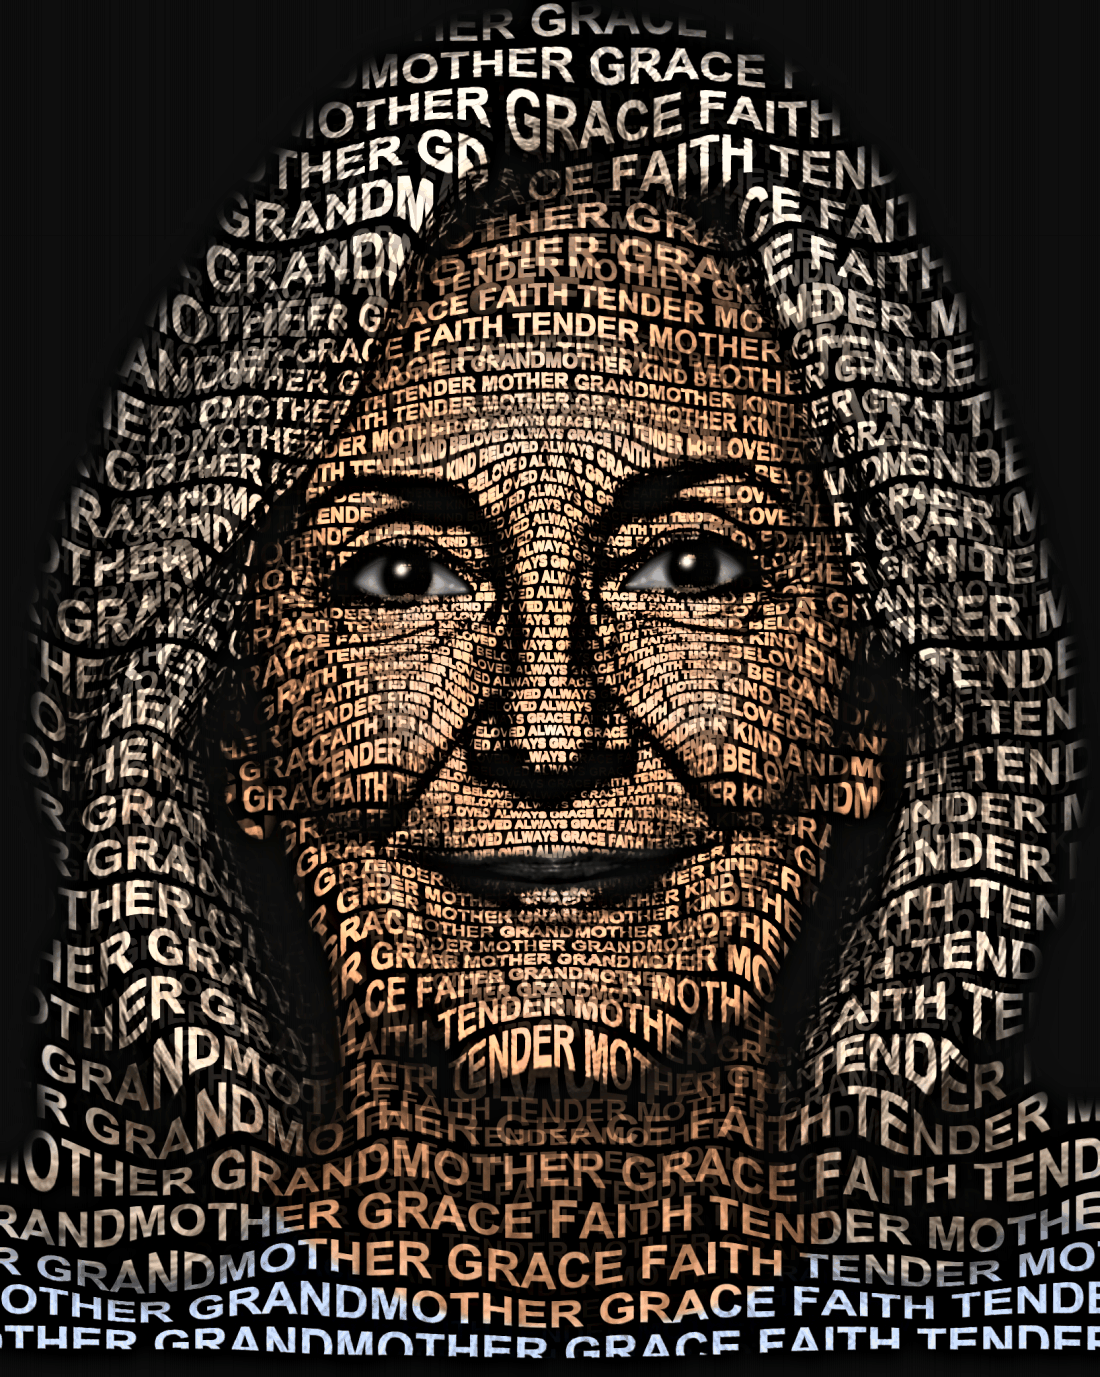
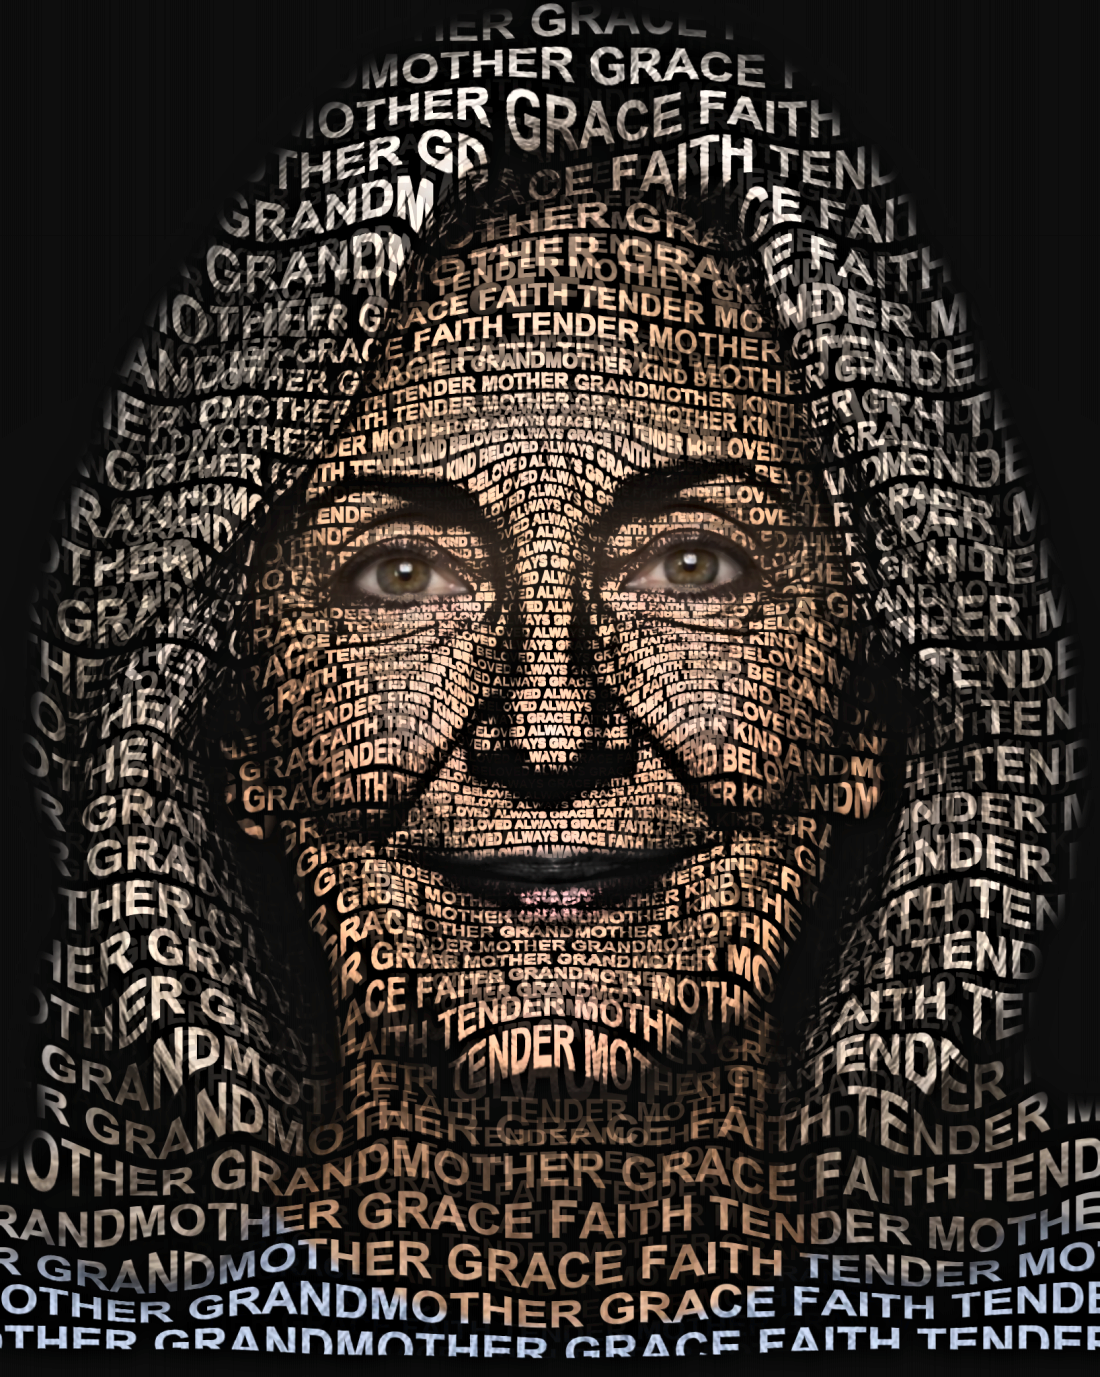
Marketing (lovedinwords.com): re-render gallery in Lifelike (match Keeper/EverLoved)
The lovedinwords showcase still used the older tonal "words" renders (which only
render full-fidelity with cairosvg). Re-render the whole gallery in Sculpt/Lifelike
via the current engine -- full local fidelity, the eye work, and consistent with
the Keeper/EverLoved memorial family (and with lovedinwords' own displacement
default). Refreshed: hero portrait.jpg (grace), example-1/2/3.jpg (ruth/eleanor/
robert), both testimonials (tst-grandma/tst-poppy), and the framed scene.jpg
(fresh grace render warped into the desk-frame opening). All 4:5; before/after
sliders stay aligned; cache-bust versions bumped.

diff --git a/typography_engine/marketing/lovedinwords/index.html b/typography_engine/marketing/lovedinwords/index.html
@@ -136,7 +136,7 @@ footer .by{display:block; margin-top:8px; font-size:12px; color:var(--muted); op
     <p class="sub">A photo of the person you've lost becomes a portrait composed of their name, their dates, and the words that captured who they were — printed, framed, and ready to hang or to give.</p>
     <a class="btn" href="https://app.typortrait.com/?brand=lovedinwords">Create a remembrance keepsake</a>
     <span class="free">Free to create and preview — you only order it if it feels right.</span>
-    <img class="shot scene" src="scene.jpg?v=5" alt="A lifelike memorial portrait made from words, framed on a desk beside a candle and flowers" />
+    <img class="shot scene" src="scene.jpg?v=6" alt="A lifelike memorial portrait made from words, framed on a desk beside a candle and flowers" />
     <button type="button" class="zoomlink" id="zoomBtn">&#128269; View the words up close</button>
   </header>
 
@@ -144,7 +144,7 @@ footer .by{display:block; margin-top:8px; font-size:12px; color:var(--muted); op
     <h2>Made from a photo and the words you choose</h2>
     <p class="lede">Drag to see the change — their photograph becomes a portrait of the words that describe them.</p>
     <div class="ba" id="ba" aria-label="Drag to compare the photograph and the portrait made from words">
-      <img class="ba-after" src="portrait.jpg?v=5" alt="A portrait made from the words that describe her" />
+      <img class="ba-after" src="portrait.jpg?v=6" alt="A portrait made from the words that describe her" />
       <div class="ba-before" id="baBefore"><img src="grace-before.jpg" alt="The original photograph" /></div>
       <div class="ba-line" id="baLine"></div>
       <div class="ba-grip" id="baGrip">&#8596;</div>
@@ -157,9 +157,9 @@ footer .by{display:block; margin-top:8px; font-size:12px; color:var(--muted); op
     <h2>A few remembrances</h2>
     <p class="lede">Each one is made entirely from the words a family chose — a name, the dates, the way they were loved.</p>
     <div class="gallery">
-      <figure class="gcard"><img src="example-1.jpg?v=3" loading="lazy" alt="A memorial word-portrait of a grandmother, formed from words like mama, grandma, faithful and kind" /><figcaption>Mama, Grandma, Faithful, Patient — the words that were her.</figcaption></figure>
-      <figure class="gcard"><img src="example-2.jpg?v=3" loading="lazy" alt="A memorial word-portrait of a mother, formed from words like mother, grace, devoted and faith" /><figcaption>Mother, Grace, Devoted, Faith — woven into her likeness.</figcaption></figure>
-      <figure class="gcard"><img src="example-3.jpg?v=3" loading="lazy" alt="A memorial word-portrait of a man, formed from words like father, grandpa, mentor and wise" /><figcaption>Father, Grandpa, Mentor, Wise — every word that was him.</figcaption></figure>
+      <figure class="gcard"><img src="example-1.jpg?v=4" loading="lazy" alt="A memorial word-portrait of a grandmother, formed from words like mama, grandma, faithful and kind" /><figcaption>Mama, Grandma, Faithful, Patient — the words that were her.</figcaption></figure>
+      <figure class="gcard"><img src="example-2.jpg?v=4" loading="lazy" alt="A memorial word-portrait of a mother, formed from words like mother, grace, devoted and faith" /><figcaption>Mother, Grace, Devoted, Faith — woven into her likeness.</figcaption></figure>
+      <figure class="gcard"><img src="example-3.jpg?v=4" loading="lazy" alt="A memorial word-portrait of a man, formed from words like father, grandpa, mentor and wise" /><figcaption>Father, Grandpa, Mentor, Wise — every word that was him.</figcaption></figure>
     </div>
     <p style="text-align:center;margin:26px 0 0"><a href="gallery.html" style="font-weight:600">See the full gallery &rarr;</a></p>
   </section>
@@ -185,7 +185,7 @@ footer .by{display:block; margin-top:8px; font-size:12px; color:var(--muted); op
     <div class="tstx-grid">
       <figure class="tstx-card">
         <div class="tba" style="--p:55%">
-          <img class="tba-after" src="tst-grandma-after.jpg?v=3" width="880" height="1100" loading="lazy" alt="A remembrance word-portrait of a grandmother, made from the words that describe her" />
+          <img class="tba-after" src="tst-grandma-after.jpg?v=4" width="880" height="1100" loading="lazy" alt="A remembrance word-portrait of a grandmother, made from the words that describe her" />
           <div class="tba-before"><img src="tst-grandma-before.jpg" width="880" height="1100" loading="lazy" alt="The original photograph of a grandmother" /></div>
           <span class="tba-tag l">their photo</span><span class="tba-tag r">in their words</span>
           <div class="tba-line"></div><div class="tba-grip">&#8596;</div>
@@ -197,7 +197,7 @@ footer .by{display:block; margin-top:8px; font-size:12px; color:var(--muted); op
       </figure>
       <figure class="tstx-card">
         <div class="tba" style="--p:55%">
-          <img class="tba-after" src="tst-poppy-after.jpg?v=3" width="880" height="1100" loading="lazy" alt="A remembrance word-portrait of a grandfather, made from the words that describe him" />
+          <img class="tba-after" src="tst-poppy-after.jpg?v=4" width="880" height="1100" loading="lazy" alt="A remembrance word-portrait of a grandfather, made from the words that describe him" />
           <div class="tba-before"><img src="tst-poppy-before.jpg" width="880" height="1100" loading="lazy" alt="The original photograph of a grandfather" /></div>
           <span class="tba-tag l">their photo</span><span class="tba-tag r">in their words</span>
           <div class="tba-line"></div><div class="tba-grip">&#8596;</div>
@@ -254,7 +254,7 @@ footer .by{display:block; margin-top:8px; font-size:12px; color:var(--muted); op
 </footer>
 <div class="zoomview" id="zoomView">
   <button class="zoomclose" id="zoomClose" aria-label="Close">&times;</button>
-  <img src="portrait.jpg?v=5" alt="The portrait up close — made from the words that describe her" />
+  <img src="portrait.jpg?v=6" alt="The portrait up close — made from the words that describe her" />
 </div>
 <script>
 (function(){
